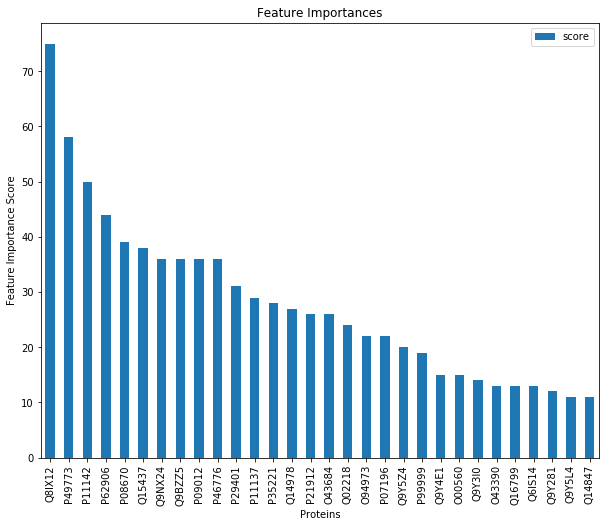
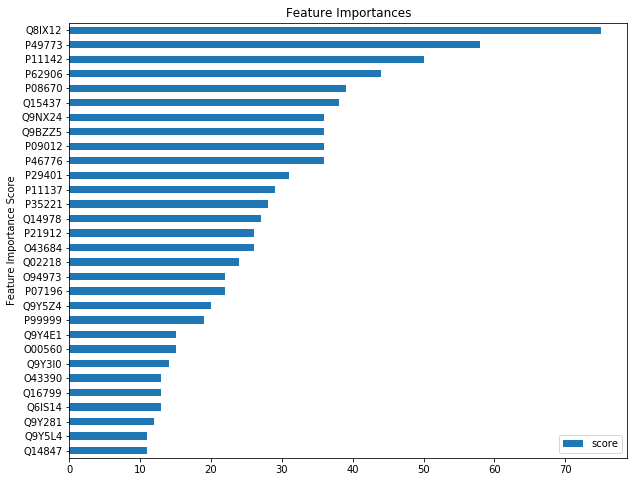
Changes not staged for commit:

Changed region(s): [[0.0, 0.0, 0.9984, 0.9959]]

diff --git a/1-xgboost_solo_app.py b/1-xgboost_solo_app.py
@@ -143,7 +143,7 @@ def xgb_model_fit(dt_feature_list,feature_names,mAlg, trainDT,trainOutputDT,test
     feat_imp['Proteins'] = np.array(feature_new_names)
     feat_imp = feat_imp.set_index('Proteins').sort_values(by=['score'], ascending=False)
     #print(feat_imp)
-    feat_imp[:30].plot(kind='bar', title='Feature Importances', figsize=(10, 8))
+    feat_imp[:30].plot(kind='barh', title='Feature Importances', figsize=(10, 8))
     plt.ylabel('Feature Importance Score')
     plt.show()
     
